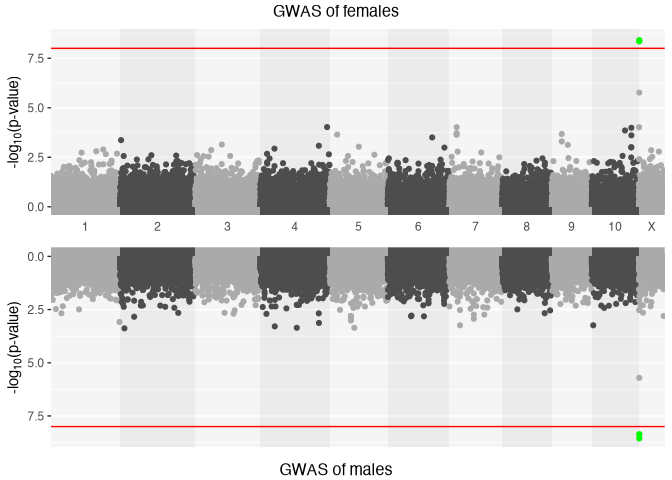
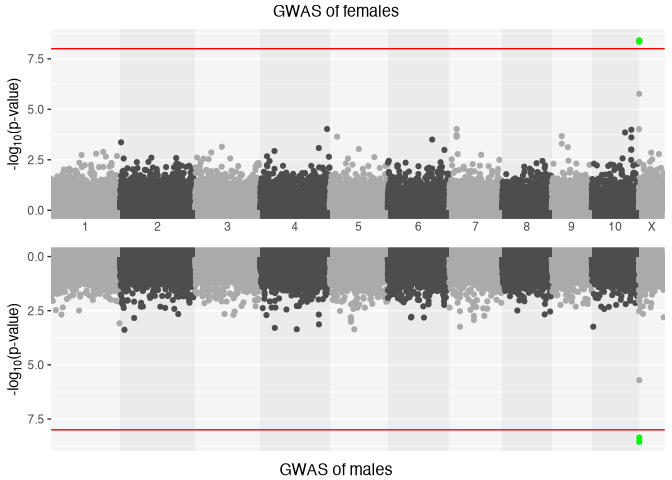
prs -> pgs

diff --git a/README.md b/README.md
@@ -36,7 +36,7 @@ common variants with unrelated individuals.
 **(D)Sex-differential test:** `SexDiff()`; `SexDiffZscore()`;
 `DiffZeroOne()`
 
-**(E)High level analysis:** `TestXGene()`; `MetaGWAS()`; `ComputePRS()`;
+**(E)High level analysis:** `TestXGene()`; `MetaGWAS()`; `ComputePGS()`;
 `GeneticCorrBT()`; `EstimateHerit()`
 
 **(F)Utility Functions:** `FilterPlinkSample()`; `ComputeGeneticPC()`;
@@ -230,14 +230,14 @@ ResultGXwas <- GXwas(
 #> • Stratified test is running for males
 #> ℹ If you want parallel computation, please provide non-zero value for argument ncores.
 #> ℹ Plots are initiated.
-#> ℹ Saving plot to /var/folders/d6/gtwl3_017sj4pp14fbfcbqjh0000gp/T//RtmpHOJOHj/Stratified_GWAS.png
+#> ℹ Saving plot to /var/folders/d6/gtwl3_017sj4pp14fbfcbqjh0000gp/T//Rtmp3nGQ23/Stratified_GWAS.png
 #> This message is displayed once every 8 hours.
 ```
 
 <img src="man/figures/README-example-1.png" width="100%" />
 
     #> ℹ Saving plot to
-    #> /var/folders/d6/gtwl3_017sj4pp14fbfcbqjh0000gp/T//RtmpHOJOHj/Stratified_XWAS.png
+    #> /var/folders/d6/gtwl3_017sj4pp14fbfcbqjh0000gp/T//Rtmp3nGQ23/Stratified_XWAS.png
 
 <img src="man/figures/README-example-2.png" width="100%" /><img src="man/figures/README-example-3.png" width="100%" /><img src="man/figures/README-example-4.png" width="100%" /><img src="man/figures/README-example-5.png" width="100%" /><img src="man/figures/README-example-6.png" width="100%" />
 
@@ -245,7 +245,7 @@ ResultGXwas <- GXwas(
     #> • CombinedWAS
     #> • MaleWAS
     #> • FemaleWAS
-    #> ℹ You can find them in the directory: /var/folders/d6/gtwl3_017sj4pp14fbfcbqjh0000gp/T//RtmpHOJOHj
+    #> ℹ You can find them in the directory: /var/folders/d6/gtwl3_017sj4pp14fbfcbqjh0000gp/T//Rtmp3nGQ23
     ResultGXwas
     #> $CombinedWAS
     #> Key: <SNP>
